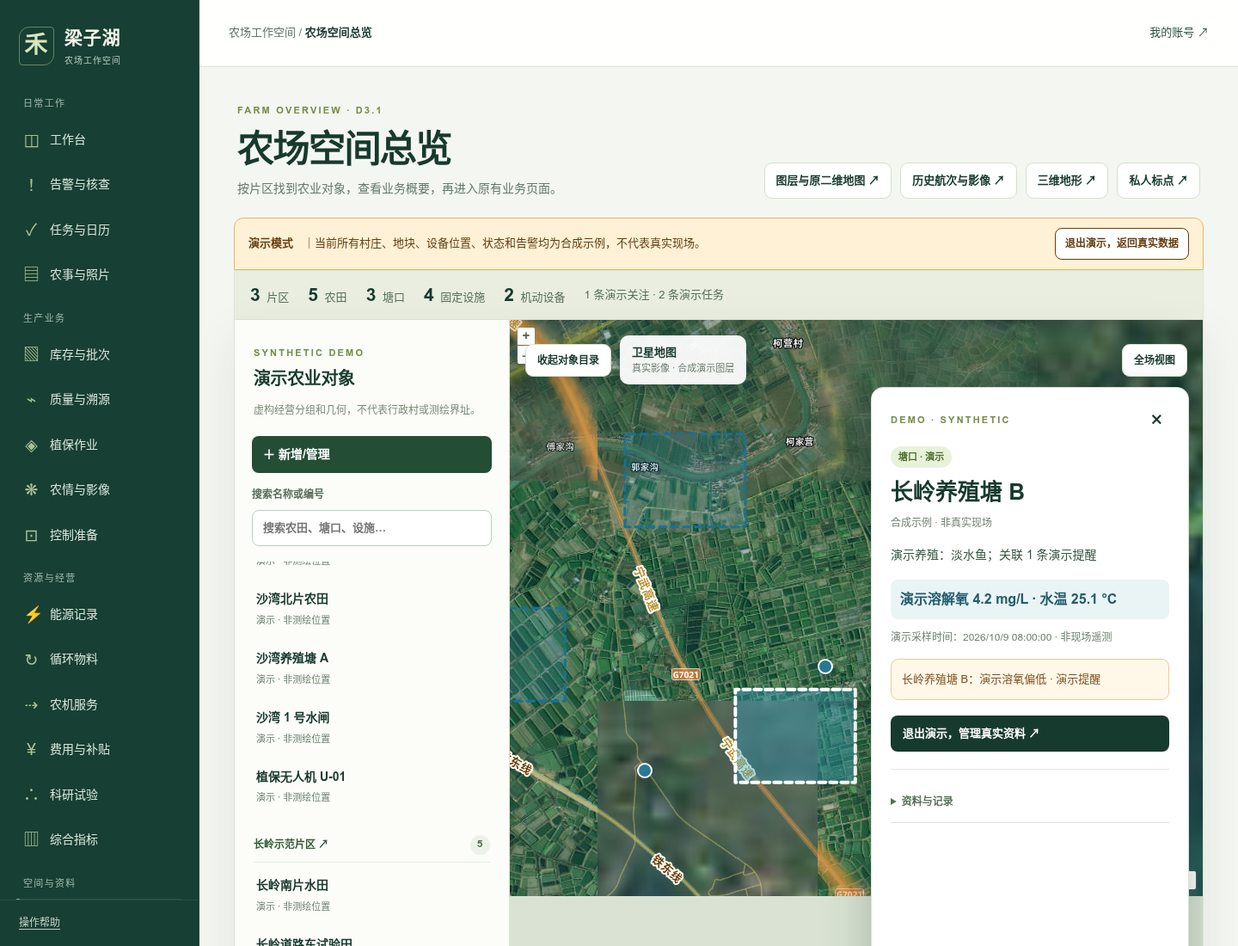
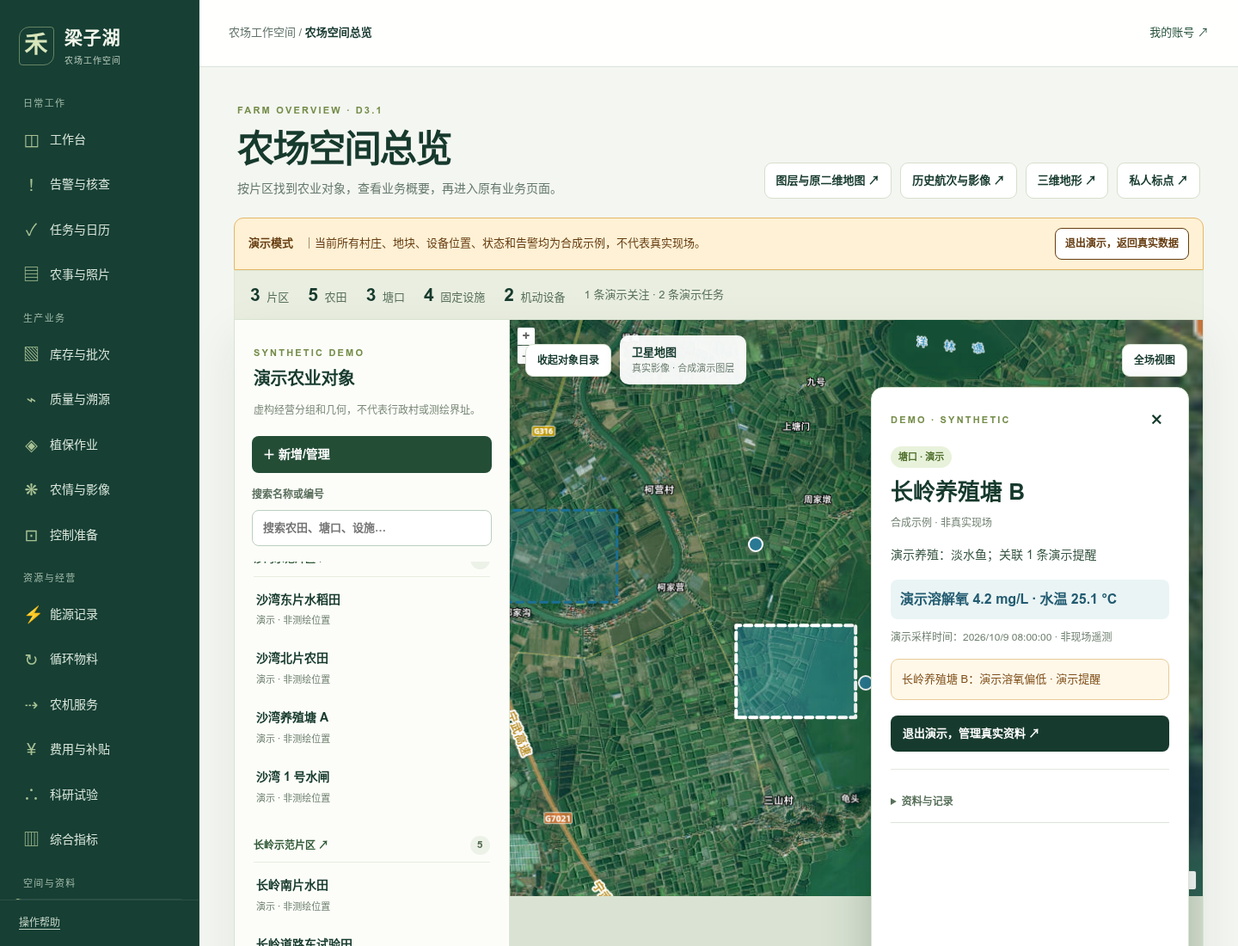
fix: address D3.1 farm overview review findings

diff --git a/src/app/(platform)/farm-overview/demo-fixture.ts b/src/app/(platform)/farm-overview/demo-fixture.ts
@@ -1,34 +1,36 @@
 // Deterministic, read-only presentation data. IDs and coordinates never enter business APIs.
 export type DemoGeometry={type:'Polygon'|'Point';coordinates:number[][][]|number[]};
-export type DemoItem={id:string;name:string;code:string;kind:'farm'|'field'|'pond'|'facility'|'mobile';regionId?:string;geometry:DemoGeometry|null;detail:string;status:string;metric?:string;sampledAt?:string;object_source:string;object_recorded_at:string;boundary_status:'draft'|'unknown';version:1};
+export type DemoItem={id:string;farmId:string;name:string;code:string;kind:'farm'|'field'|'pond'|'facility'|'mobile';regionId?:string;geometry:DemoGeometry|null;detail:string;status:string;metric?:string;sampledAt?:string;object_source:string;object_recorded_at:string;boundary_status:'draft'|'unknown';version:1};
 export type DemoRegion={id:string;farmId:string;name:string;version:number;archivedAt:null;links:{objectId:string}[]};
 const date='2026-10-09T08:00:00+08:00';
 const polygon=(lon:number,lat:number):DemoGeometry=>({type:'Polygon',coordinates:[[[lon-.006,lat-.004],[lon+.006,lat-.004],[lon+.006,lat+.004],[lon-.006,lat+.004],[lon-.006,lat-.004]]]});
 const point=(lon:number,lat:number):DemoGeometry=>({type:'Point',coordinates:[lon,lat]});
 const base={object_source:'D3.1 合成演示 fixture；非测绘、非现场资料',object_recorded_at:date,boundary_status:'draft' as const,version:1 as const};
-const item=(id:string,name:string,kind:DemoItem['kind'],regionId:string|undefined,geometry:DemoGeometry|null,detail:string,status:string,metric?:string):DemoItem=>({id:`demo:${id}`,code:`演示-${id}`,name,kind,regionId,geometry,detail,status,metric,sampledAt:metric?date:undefined,...base});
+const item=(id:string,name:string,kind:DemoItem['kind'],regionId:string|undefined,geometry:DemoGeometry|null,detail:string,status:string,metric?:string):DemoItem=>({id:`demo:${id}`,farmId:'demo:farm:main',code:`演示-${id}`,name,kind,regionId,geometry,detail,status,metric,sampledAt:metric?date:undefined,...base});
 export const demoItems:DemoItem[]=[
  item('farm:main','梁子湖农场（演示总览）','farm',undefined,null,'3 个虚构演示经营片区；不代表现场经营权属','只读演示'),
- item('field:01','沙湾东片水稻田','field','demo:region:sawan',polygon(114.56,30.29),'演示作物：水稻 · 演示阶段：分蘖期','演示地块'),
- item('field:02','沙湾北片农田','field','demo:region:sawan',polygon(114.575,30.305),'演示作物：水稻 · 演示阶段：育秧期','演示地块'),
- item('pond:01','沙湾养殖塘 A','pond','demo:region:sawan',polygon(114.583,30.283),'演示养殖：淡水鱼','演示水质','演示溶解氧 6.1 mg/L'),
- item('facility:01','沙湾 1 号水闸','facility','demo:region:sawan',point(114.578,30.287),'演示开度 65%；没有控制指令','模拟运行'),
- item('field:03','长岭南片水田','field','demo:region:changling',polygon(114.71,30.32),'演示作物：水稻 · 演示阶段：抽穗期','演示地块'),
- item('field:04','长岭道路东试验田','field','demo:region:changling',polygon(114.728,30.335),'演示作物：试验水稻 · 演示阶段：观察期','演示地块'),
- item('pond:02','长岭养殖塘 B','pond','demo:region:changling',polygon(114.739,30.313),'演示养殖：淡水鱼；关联 1 条演示提醒','演示溶氧偏低','演示溶解氧 4.2 mg/L · 水温 25.1 °C'),
- item('facility:02','长岭泵站','facility','demo:region:changling',point(114.724,30.31),'演示泵站；没有控制指令','模拟待命'),
- item('facility:03','长岭水质监测桩','facility','demo:region:changling',point(114.742,30.319),'演示监测设施；读数不来自真实终端','模拟采样'),
- item('field:05','湖东示范田','field','demo:region:hudong',polygon(114.87,30.275),'演示作物：水稻 · 演示阶段：成熟期','演示地块'),
- item('pond:03','湖东养殖塘 C','pond','demo:region:hudong',polygon(114.891,30.287),'演示养殖：淡水鱼','演示水质','演示溶解氧 5.8 mg/L'),
- item('facility:04','湖东 2 号水闸','facility','demo:region:hudong',point(114.883,30.272),'演示灌排设施；没有控制指令','模拟待命'),
- item('mobile:01','植保无人机 U-01','mobile','demo:region:sawan',point(114.595,30.3),'登记归属：沙湾示范片区；演示坐标，非真实 GPS','演示待命'),
- item('mobile:02','收割机 H-01','mobile','demo:region:hudong',point(114.865,30.285),'登记归属：湖东示范片区；演示坐标，非真实 GPS','演示作业中'),
+ // Approximate display anchors adjusted toward shore-side fields, tracks and small ponds.
+ // These do not derive surveyed boundaries or device GPS from the reference image.
+ item('field:01','沙湾东片水稻田','field','demo:region:sawan',polygon(114.655,30.323),'演示作物：水稻 · 演示阶段：分蘖期','演示地块'),
+ item('field:02','沙湾北片农田','field','demo:region:sawan',polygon(114.671,30.315),'演示作物：水稻 · 演示阶段：育秧期','演示地块'),
+ item('pond:01','沙湾养殖塘 A','pond','demo:region:sawan',polygon(114.668,30.298),'演示养殖：淡水鱼','演示水质','演示溶解氧 6.1 mg/L'),
+ item('facility:01','沙湾 1 号水闸','facility','demo:region:sawan',point(114.656,30.302),'演示开度 65%；没有控制指令','模拟运行'),
+ item('field:03','长岭南片水田','field','demo:region:changling',polygon(114.71,30.342),'演示作物：水稻 · 演示阶段：抽穗期','演示地块'),
+ item('field:04','长岭道路东试验田','field','demo:region:changling',polygon(114.728,30.341),'演示作物：试验水稻 · 演示阶段：观察期','演示地块'),
+ item('pond:02','长岭养殖塘 B','pond','demo:region:changling',polygon(114.752,30.331),'演示养殖：淡水鱼；关联 1 条演示提醒','演示溶氧偏低','演示溶解氧 4.2 mg/L · 水温 25.1 °C'),
+ item('facility:02','长岭泵站','facility','demo:region:changling',point(114.748,30.342),'演示泵站；没有控制指令','模拟待命'),
+ item('facility:03','长岭水质监测桩','facility','demo:region:changling',point(114.759,30.33),'演示监测设施；读数不来自真实终端','模拟采样'),
+ item('field:05','湖东示范田','field','demo:region:hudong',polygon(114.87,30.287),'演示作物：水稻 · 演示阶段：成熟期','演示地块'),
+ item('pond:03','湖东养殖塘 C','pond','demo:region:hudong',polygon(114.88,30.286),'演示养殖：淡水鱼','演示水质','演示溶解氧 5.8 mg/L'),
+ item('facility:04','湖东 2 号水闸','facility','demo:region:hudong',point(114.878,30.291),'演示灌排设施；没有控制指令','模拟待命'),
+ item('mobile:01','植保无人机 U-01','mobile','demo:region:sawan',point(114.663,30.319),'登记归属：沙湾示范片区；演示坐标，非真实 GPS','演示待命'),
+ item('mobile:02','收割机 H-01','mobile','demo:region:hudong',point(114.876,30.295),'登记归属：湖东示范片区；演示坐标，非真实 GPS','演示作业中'),
 ];
 export const demoRegions:DemoRegion[]=[
  {id:'demo:region:sawan',farmId:'demo:farm:main',name:'沙湾示范片区',version:1,archivedAt:null,links:[]},
  {id:'demo:region:changling',farmId:'demo:farm:main',name:'长岭示范片区',version:1,archivedAt:null,links:[]},
  {id:'demo:region:hudong',farmId:'demo:farm:main',name:'湖东示范片区',version:1,archivedAt:null,links:[]},
-].map(region=>({...region,links:demoItems.filter(row=>row.regionId===region.id).map(row=>({objectId:row.id}))}));
+].map(region=>({...region,links:demoItems.filter(row=>row.regionId===region.id&&row.kind!=='mobile').map(row=>({objectId:row.id}))}));
 export const demoAlerts=[{id:'demo:attention:01',objectId:'demo:pond:02',text:'长岭养殖塘 B：演示溶氧偏低'}];
 export const demoTasks=[{id:'demo:task:01',regionId:'demo:region:sawan',text:'沙湾田间巡查 · 演示任务'},{id:'demo:task:02',regionId:'demo:region:hudong',text:'湖东灌排设施巡检 · 演示任务'}];
 export const demoCounts={regions:demoRegions.length,fields:demoItems.filter(row=>row.kind==='field').length,ponds:demoItems.filter(row=>row.kind==='pond').length,facilities:demoItems.filter(row=>row.kind==='facility').length,mobiles:demoItems.filter(row=>row.kind==='mobile').length,alerts:demoAlerts.length,tasks:demoTasks.length};

diff --git a/src/app/(platform)/farm-overview/overview-detail.tsx b/src/app/(platform)/farm-overview/overview-detail.tsx
@@ -1,10 +1,10 @@
 'use client';
 import Link from 'next/link';
-import {demoAlerts,demoCounts,demoItems,demoTasks} from './demo-fixture';
+import {demoAlerts,demoTasks} from './demo-fixture';
 import styles from './farm-overview.module.css';
 
-type Item={id:string;name:string;code:string;kind:string;version:number;boundary_status:string;geometry:unknown;object_source?:string;object_recorded_at?:string;boundary_source?:string|null;boundary_recorded_at?:string|null;regionId?:string;detail?:string;status?:string;metric?:string;sampledAt?:string};
-type Region={id:string;name:string;links:{objectId:string}[]};
+type Item={id:string;farm_id?:string;farmId?:string;name:string;code:string;kind:string;version:number;boundary_status:string;geometry:unknown;object_source?:string;object_recorded_at?:string;boundary_source?:string|null;boundary_recorded_at?:string|null;regionId?:string;detail?:string;status?:string;metric?:string;sampledAt?:string};
+type Region={id:string;farmId:string;name:string;links:{objectId:string}[]};
 type Mobile={binding_id:string;object_id:string;machine_name:string;terminal_name:string;valid_until:string};
 type Summary={object_id:string;open_alerts:number;record_count:number;point_count:number};
 const labels:Record<string,string>={farm:'农场',field:'农田',pond:'塘口',facility:'固定设施',mobile:'机动设备',channel:'渠道'};
@@ -20,11 +20,15 @@ export default function OverviewDetail({mode,item,region,mobile,items,regions,su
  const regionRows=region?items.filter(row=>region.links.some(link=>link.objectId===row.id)):[];
  const attention=demo?demoAlerts.find(row=>row.objectId===item?.id):null;
  const relatedTasks=demo?demoTasks.filter(row=>row.regionId===(region?.id??item?.regionId)):[];
- const farmFacts=[{label:'片区',value:regions.length},{label:'农田',value:items.filter(row=>row.kind==='field').length},{label:'塘口',value:items.filter(row=>row.kind==='pond').length},{label:'固定设施',value:items.filter(row=>row.kind==='facility').length},{label:'机动设备',value:demo?demoCounts.mobiles:mobileDevices.length}];
+ const farmId=item?.kind==='farm'?item.id:null;
+ const farmItems=farmId?items.filter(row=>(row.farm_id??row.farmId??(row.kind==='farm'?row.id:null))===farmId):[];
+ const farmItemIds=new Set(farmItems.map(row=>row.id));
+ const farmAlerts=demo?demoAlerts.filter(row=>farmItemIds.has(row.objectId)):[];
+ const farmFacts=[{label:'片区',value:regions.filter(row=>row.farmId===farmId).length},{label:'农田',value:farmItems.filter(row=>row.kind==='field').length},{label:'塘口',value:farmItems.filter(row=>row.kind==='pond').length},{label:'固定设施',value:farmItems.filter(row=>row.kind==='facility').length},{label:'机动设备',value:demo?farmItems.filter(row=>row.kind==='mobile').length:mobileDevices.filter(row=>farmItemIds.has(row.object_id)).length}];
  const regionFacts=[{label:'农田',value:regionRows.filter(row=>row.kind==='field').length},{label:'塘口',value:regionRows.filter(row=>row.kind==='pond').length},{label:'固定设施',value:regionRows.filter(row=>row.kind==='facility').length}];
  return <aside className={styles.drawer} aria-label="对象详情" aria-live="polite"><div className={styles.drawerTop}><span className={styles.eyebrow}>{demo?'DEMO · SYNTHETIC':'AUTHORIZED DETAIL'}</span><button type="button" onClick={onClose} aria-label="关闭对象详情">×</button></div>
   <span className={styles.kind}>{kind}{demo?' · 演示':''}</span><h2>{title}</h2><p className={styles.detailContext}>{demo?'合成示例 · 非真实现场':region?'经营分组，不代表行政村边界':item&&regionForItem?`所属 ${regionForItem.name}`:mobile?'绑定归属来自原农机业务':'仅当前账号获授权资料'}</p>
-  {item?.kind==='farm'&&<><Facts rows={farmFacts}/>{demo?<div className={styles.attention}>关注事项 · {demoAlerts.length} 条演示提醒<br/>{demoAlerts[0].text}</div>:<p className={styles.drawerHint}>已授权对象中有 {summaries.reduce((n,row)=>n+row.open_alerts,0)} 条未关闭告警；仅统计已有授权概要。</p>}</>}
+  {item?.kind==='farm'&&<><Facts rows={farmFacts}/>{demo?<div className={styles.attention}>关注事项 · {farmAlerts.length} 条演示提醒{farmAlerts[0]&&<><br/>{farmAlerts[0].text}</>}</div>:<p className={styles.drawerHint}>本农场已授权对象中有 {summaries.filter(row=>farmItemIds.has(row.object_id)).reduce((n,row)=>n+row.open_alerts,0)} 条未关闭告警；仅统计已有授权概要。</p>}</>}
   {region&&<><Facts rows={regionFacts}/><p className={styles.drawerHint}>共关联 {regionRows.length} 个可见农业对象；按关联对象边界定位，片区本身没有正式测绘边界。</p></>}
   {item?.kind==='field'&&<><p className={styles.businessLead}>{demo?item.detail:'暂无可信作物或生长阶段资料；进入原农事模块核对。'}</p><Facts rows={[{label:'农事记录',value:demo?'演示资料':summary?.record_count??'暂无可信数据'},{label:'关联测点',value:demo?'演示资料':summary?.point_count??'暂无可信数据'}]}/></>}
   {item&&!demo&&!item.geometry&&<p className={styles.detailContext}>待登记</p>}

diff --git a/src/app/(platform)/devices/device-management.tsx b/src/app/(platform)/devices/device-management.tsx
@@ -6,10 +6,10 @@ import {useApi} from '@/components/platform/use-api';
 
 type ObjectRow={id:string;name:string;kind:string;archived_at:string|null};
 type SourceRow={id:string;object_id:string;name:string;code:string;verified:boolean};
-export default function DeviceManagement(){
+export default function DeviceManagement({onDeviceSaved}:{onDeviceSaved:()=>void}){
  const objects=useApi<{items:ObjectRow[]}>('/api/v1/objects?action=configure&limit=200');
  const sources=useApi<SourceRow[]>('/api/v1/sources');
- const [open,setOpen]=useState(false),[objectId,setObjectId]=useState(''),[sourceObjectId,setSourceObjectId]=useState('');
+ const [open,setOpen]=useState(false),[objectId,setObjectId]=useState('');
  useEffect(()=>{if(location.hash==='#register')setOpen(true);},[]);
  const managed=objects.data?.items.filter(row=>!row.archived_at)??[];
  const available=sources.data?.filter(row=>row.object_id===objectId)??[];
@@ -17,7 +17,7 @@ export default function DeviceManagement(){
   {!managed.length?<p className="hint">当前没有可配置的农业对象。请先取得对象配置权限，或在<Link href="/objects">对象台账</Link>登记对象。</p>:<details open={open} onToggle={event=>setOpen(event.currentTarget.open)}><summary>＋ 登记实体设备</summary><label>关联对象<select value={objectId} onChange={event=>setObjectId(event.target.value)}><option value="">选择有配置权的对象</option>{managed.map(row=><option key={row.id} value={row.id}>{row.name} · {row.kind}</option>)}</select></label>
    {objectId&&<>{!available.length&&<p className="hint">该对象尚无数据来源。先登记真实来源编号、服务方和依据，再登记设备；不可使用虚构来源。</p>}
     <details><summary>先登记数据来源</summary><ActionForm path="/api/v1/sources" onSaved={()=>void sources.reload()} label="保存数据来源"><input type="hidden" name="objectId" value={objectId}/><label>来源编号<input name="code" required maxLength={80}/></label><label>来源名称<input name="name" required maxLength={80}/></label><label>服务方<input name="provider" required maxLength={80}/></label><label>合同或资料路径（如有）<input name="contractRef" maxLength={1000}/></label></ActionForm></details>
-    {available.length>0&&<ActionForm path="/api/v1/devices" onSaved={()=>void sources.reload()} label="登记实体设备"><input type="hidden" name="objectId" value={objectId}/><input type="hidden" name="kind" value="physical"/><label>已登记数据来源<select name="sourceId" required defaultValue=""><option value="">选择来源</option>{available.map(row=><option key={row.id} value={row.id}>{row.name} · {row.code}{row.verified?' · 已核实':' · 待核实'}</option>)}</select></label><label>厂家或业务编号<input name="externalId" required maxLength={120}/></label><label>设备名称<input name="name" required maxLength={80}/></label><label>型号（如有）<input name="model"/></label><label>登记依据<input name="source" required maxLength={1000}/></label></ActionForm>}
+    {available.length>0&&<ActionForm path="/api/v1/devices" onSaved={onDeviceSaved} label="登记实体设备"><input type="hidden" name="objectId" value={objectId}/><input type="hidden" name="kind" value="physical"/><label>已登记数据来源<select name="sourceId" required defaultValue=""><option value="">选择来源</option>{available.map(row=><option key={row.id} value={row.id}>{row.name} · {row.code}{row.verified?' · 已核实':' · 待核实'}</option>)}</select></label><label>厂家或业务编号<input name="externalId" required maxLength={120}/></label><label>设备名称<input name="name" required maxLength={80}/></label><label>型号（如有）<input name="model"/></label><label>登记依据<input name="source" required maxLength={1000}/></label></ActionForm>}
    </>}
    <p><Link href="/machinery">农机机具与定位终端关系 ↗</Link>　<Link href="/farm-overview">返回农场地图 ↗</Link></p>
   </details>}

diff --git a/tests/acceptance/farm-overview-d31-browser.test.ts b/tests/acceptance/farm-overview-d31-browser.test.ts
@@ -30,6 +30,7 @@ test('D3.1 演示隔离、差异化详情、真实新增路径和权限', {timeo
    await page.getByRole('button',{name:/查看演示效果/}).click();
    await page.getByText(/当前所有村庄、地块、设备位置、状态和告警均为合成示例/).waitFor();
    for(const name of ['沙湾示范片区','长岭示范片区','湖东示范片区'])await page.getByRole('button',{name:`定位村庄 ${name}`}).waitFor();
+   assert.equal(await page.getByRole('button',{name:/植保无人机 U-01/}).count(),1,'无人机只应在独立机动设备目录出现一次');
    assert.equal(await page.getByText('3 片区').count(),1);
    await capture('02-演示全场.png');
    await page.getByRole('button',{name:/梁子湖农场（演示总览）/}).click();
@@ -132,6 +133,7 @@ test('D3.1 演示隔离、差异化详情、真实新增路径和权限', {timeo
    await deviceForm.getByLabel('登记依据').fill('D3.1 隔离测试');
    await deviceForm.getByRole('button',{name:'登记实体设备'}).click();
    await deviceForm.getByText('已保存').waitFor();
+   await page.getByRole('cell',{name:'隔离验收无人机'}).waitFor();
    assert.equal((await pool.query("SELECT kind,verified FROM devices WHERE external_id='SYNTH-U01'")).rows[0].verified,false);
    const workerContext=await browser.newContext();try{await workerContext.addCookies([{name:'agri_session',value:await app.authenticate(worker),url:app.origin}]);const workerPage=await workerContext.newPage();await workerPage.goto(app.origin+'/farm-overview');await workerPage.getByRole('button',{name:/合成测试农场/}).waitFor();await workerPage.getByRole('button',{name:'＋ 新增/管理'}).click();assert.equal(await workerPage.getByRole('link',{name:'新增地块/塘口'}).count(),0);const denied=await workerContext.request.post(app.origin+'/api/v1/objects',{headers:{Origin:app.origin},data:{parentId:farm,kind:'field',code:'DENIED',name:'越权',source:'测试'}});assert.equal(denied.status(),403);}finally{await workerContext.close();}
    const adminContext=await browser.newContext();try{await adminContext.addCookies([{name:'agri_session',value:await app.authenticate(admin),url:app.origin}]);const denied=await adminContext.request.post(app.origin+'/api/v1/map-regions',{headers:{Origin:app.origin},data:{farmId:farm,name:'管理员无权新村',source:'测试'}});assert.equal(denied.status(),403,'管理员角色不得替代对象配置授权');await permit(pool,admin.id,farm,['read','configure']);const allowed=await adminContext.request.get(app.origin+'/api/v1/objects?action=configure&limit=200');assert.equal(allowed.status(),200);assert((await allowed.json()).items.some((row:{id:string})=>row.id===farm));}finally{await adminContext.close();}

diff --git a/src/app/(platform)/farm-overview/farm-overview.tsx b/src/app/(platform)/farm-overview/farm-overview.tsx
@@ -24,7 +24,7 @@ import OverviewDetail from './overview-detail';
 import {demoCounts,demoItems,demoRegions} from './demo-fixture';
 
 type Geometry={type:string;coordinates:unknown};
-type FarmObject={id:string;name:string;code:string;kind:string;version:number;boundary_status:string;geometry:Geometry|null;object_source?:string;object_recorded_at?:string;boundary_source?:string|null;boundary_recorded_at?:string|null;regionId?:string;detail?:string;status?:string;metric?:string;sampledAt?:string};
+type FarmObject={id:string;farm_id?:string;farmId?:string;name:string;code:string;kind:string;version:number;boundary_status:string;geometry:Geometry|null;object_source?:string;object_recorded_at?:string;boundary_source?:string|null;boundary_recorded_at?:string|null;regionId?:string;detail?:string;status?:string;metric?:string;sampledAt?:string};
 type Region={id:string;farmId:string;name:string;version:number;archivedAt:string|null;links:{objectId:string}[]};
 type Summary={object_id:string;open_alerts:number;record_count:number;point_count:number};
 type MobileDevice={binding_id:string;object_id:string;machine_id:string;machine_name:string;terminal_id:string;terminal_name:string;valid_until:string};
@@ -65,8 +65,8 @@ export default function FarmOverview(){
   if(!regions.length)return kindOrder.map(kind=>({kind,label:labels[kind]??kind,items:filtered.filter(item=>item.kind===kind)})).filter(group=>group.items.length);
   const assigned=new Set(regions.flatMap(region=>region.links.map(link=>link.objectId)));
   const search=query.trim().toLocaleLowerCase();
-  const villageGroups=regions.map(region=>({kind:region.id,label:region.name,items:(region.name.toLocaleLowerCase().includes(search)?items:filtered).filter(item=>region.links.some(link=>link.objectId===item.id))}));
-  const unassigned=filtered.filter(item=>item.kind!=='farm'&&!assigned.has(item.id));
+  const villageGroups=regions.map(region=>({kind:region.id,label:region.name,items:(region.name.toLocaleLowerCase().includes(search)?items:filtered).filter(item=>item.kind!=='mobile'&&region.links.some(link=>link.objectId===item.id))}));
+  const unassigned=filtered.filter(item=>item.kind!=='farm'&&item.kind!=='mobile'&&!assigned.has(item.id));
   const farms=filtered.filter(item=>item.kind==='farm');
   return [...villageGroups,...(unassigned.length?[{kind:'unassigned',label:'未关联村庄',items:unassigned}]:[]),...(farms.length?[{kind:'farm',label:'农场',items:farms}]:[])];
  },[filtered,items,query,regions]);

diff --git a/src/app/(platform)/devices/page.tsx b/src/app/(platform)/devices/page.tsx
@@ -1,3 +1,5 @@
+'use client';
+import {useState} from 'react';
 import DataList from '@/components/platform/data-list';
 import DeviceManagement from './device-management';
-export default function DevicesPage() { return <section className="workspace"><h1>设备与测点</h1><p className="hint">物理设备、网关、摄像通道与测点分别建档。登记设备不代表已经联网。</p><DeviceManagement/><DataList path="/api/v1/devices?limit=200" columns={[{ key: 'name', label: '设备' }, { key: 'kind', label: '类别' }, { key: 'model', label: '型号' }, { key: 'external_id', label: '厂家编号' }, { key: 'object_name', label: '对象' }, { key: 'verified', label: '核实' }]}/><h2>测点</h2><DataList path="/api/v1/points" linkPrefix="/points/" columns={[{ key: 'code', label: '编号与历史入口' }, { key: 'name', label: '名称' }, { key: 'device_name', label: '设备' }, { key: 'metric', label: '指标' }, { key: 'unit', label: '单位' }, { key: 'timing_source', label: '时效依据' }]}/></section>; }
+export default function DevicesPage() { const [deviceRevision,setDeviceRevision]=useState(0);return <section className="workspace"><h1>设备与测点</h1><p className="hint">物理设备、网关、摄像通道与测点分别建档。登记设备不代表已经联网。</p><DeviceManagement onDeviceSaved={()=>setDeviceRevision(value=>value+1)}/><DataList path="/api/v1/devices?limit=200" refreshKey={deviceRevision} columns={[{ key: 'name', label: '设备' }, { key: 'kind', label: '类别' }, { key: 'model', label: '型号' }, { key: 'external_id', label: '厂家编号' }, { key: 'object_name', label: '对象' }, { key: 'verified', label: '核实' }]}/><h2>测点</h2><DataList path="/api/v1/points" linkPrefix="/points/" columns={[{ key: 'code', label: '编号与历史入口' }, { key: 'name', label: '名称' }, { key: 'device_name', label: '设备' }, { key: 'metric', label: '指标' }, { key: 'unit', label: '单位' }, { key: 'timing_source', label: '时效依据' }]}/></section>; }

diff --git a/src/components/platform/data-list.tsx b/src/components/platform/data-list.tsx
@@ -1,5 +1,5 @@
 'use client';
-import { useState } from 'react';
+import { useEffect,useState } from 'react';
 import {useApi} from './use-api';
 export function formatValue(key: string, value: unknown): string {
     if (value === null || value === undefined)
@@ -14,16 +14,18 @@ export function formatValue(key: string, value: unknown): string {
         return new Date(value).toLocaleString('zh-CN');
     return String(value);
 }
-export default function DataList({ path, columns, linkPrefix, emptyText = '当前没有已授权的记录。可由管理员在配置管理中登记并授权。' }: {
+export default function DataList({ path, columns, linkPrefix, refreshKey=0, emptyText = '当前没有已授权的记录。可由管理员在配置管理中登记并授权。' }: {
     path: string;
     columns: {
         key: string;
         label: string;
     }[];
     linkPrefix?: string;
+    refreshKey?: number;
     emptyText?: string;
 }) {
     const {data,error,loading,reload}=useApi<Record<string,unknown>[]|{items:Record<string,unknown>[];total?:number;nextCursor?:string|null}>(path),[query,setQuery]=useState(''),[sort,setSort]=useState('');
+    useEffect(()=>{if(refreshKey>0)void reload();},[refreshKey,reload]);
     const rows=Array.isArray(data)?data:data?.items??[],shown=rows.filter(r=>columns.some(c=>formatValue(c.key,r[c.key]).toLowerCase().includes(query.toLowerCase())));
     if(sort)shown.sort((a,b)=>{const av=a[sort],bv=b[sort];return typeof av==='number'&&typeof bv==='number'?av-bv:formatValue(sort,av).localeCompare(formatValue(sort,bv),'zh-CN',{numeric:true});});
     if (error)

diff --git a/src/modules/map/overview.ts b/src/modules/map/overview.ts
@@ -12,9 +12,14 @@ export async function farmOverview(c: PoolClient, actor: Actor) {
   const items = map.items.filter(item => !archived.includes(item.id as string));
   if (actor.role === 'expert') return { items, regions: [], summaries: [], mobileDevices: [], limits: ['仅显示明确分享的边界资料', '历史轨迹不代表实时定位'] };
   const ids = items.map(item => item.id as string);
-  const provenance = ids.length ? (await c.query(`SELECT o.id,o.source AS object_source,COALESCE(v.created_at,o.created_at) AS object_recorded_at,
+  const provenance = ids.length ? (await c.query(`WITH RECURSIVE ancestry AS (
+    SELECT o.id AS origin,o.id,o.parent_id,o.kind FROM objects o WHERE o.id=ANY($1::uuid[])
+    UNION ALL SELECT a.origin,p.id,p.parent_id,p.kind FROM ancestry a JOIN objects p ON p.id=a.parent_id
+    ), farm_roots AS (SELECT origin,id AS farm_id FROM ancestry WHERE kind='farm' AND parent_id IS NULL)
+    SELECT o.id,f.farm_id,o.source AS object_source,COALESCE(v.created_at,o.created_at) AS object_recorded_at,
     b.source AS boundary_source,b.created_at AS boundary_recorded_at
     FROM objects o LEFT JOIN object_versions v ON v.object_id=o.id AND v.version=o.version
+    LEFT JOIN farm_roots f ON f.origin=o.id
     LEFT JOIN LATERAL (SELECT source,created_at FROM boundary_versions WHERE object_id=o.id AND object_version=o.version LIMIT 1) b ON true
     WHERE o.id=ANY($1::uuid[])`,[ids])).rows : [];
   const provenanceById=new Map(provenance.map(row=>[row.id,row]));

diff --git a/tests/unit/farm-overview-demo.test.ts b/tests/unit/farm-overview-demo.test.ts
@@ -8,6 +8,9 @@ test('D3.1 演示清单、关系和计数来自同一份只读 fixture',()=>{
  assert(demoItems.every(row=>row.id.startsWith('demo:')&&row.object_source.includes('合成演示')));
  const ids=new Set(demoItems.map(row=>row.id));
  for(const region of demoRegions){assert(region.id.startsWith('demo:'));assert(region.links.every(link=>ids.has(link.objectId)));}
+ const mobiles=demoItems.filter(row=>row.kind==='mobile');
+ assert(demoRegions.every(region=>region.links.every(link=>!mobiles.some(row=>row.id===link.objectId))),'机动设备只列在独立目录');
+ assert(mobiles.every(row=>demoRegions.some(region=>region.id===row.regionId)),'详情仍保留管理归属');
  assert(demoAlerts.every(alert=>ids.has(alert.objectId)));
  assert(demoTasks.every(task=>demoRegions.some(region=>region.id===task.regionId)));
  assert(demoItems.filter(row=>row.kind==='mobile').every(row=>row.geometry?.type==='Point'&&row.detail.includes('非真实 GPS')));

diff --git a/docs/acceptance/farm-overview-demo/2026-10-09-D3.1产品可用性验收记录.md b/docs/acceptance/farm-overview-demo/2026-10-09-D3.1产品可用性验收记录.md
@@ -34,8 +34,16 @@
 
 [真实空状态](01-真实空状态.png) · [演示全场](02-演示全场.png) · [农场详情](03-演示农场详情.png) · [片区详情](04-演示片区详情.png) · [塘口详情](05-演示塘口详情.png) · [设施详情](06-演示设施详情.png) · [机动设备详情](07-演示机动设备.png) · [手机详情](08-演示手机详情.png)。截图里的村庄、地块、位置、测值和任务都是合成示例；卫星底图来自天地图。
 
+## 验收意见修订
+
+- 演示片区关联只包含农田、塘口和固定设施；无人机与收割机只在并列的机动设备目录各出现一次。设备详情仍写明登记归属，单测和浏览器均核对目录不重复。
+- 实体设备登记成功后，设备列表立即重新读取。隔离浏览器在不刷新页面的情况下看到新登记的无人机，数据库仍记录 `verified=false`。
+- 合成图层锚点依据本轮浏览器卫星底图截图作岸线、道路和陆地关系的近似微调。规划参考图没有可测量坐标，图层继续统一标注“非测绘位置”，设备提示“非真实 GPS”；不据此主张边界或现场精度。
+- 正式总览为授权对象补所属农场标识，农场详情只计当前农场的片区、农田、塘口、设施、有效绑定和告警。隔离库用两个农场及其不同子对象核对归属，原授权过滤不变。
+- 修订后 TypeScript、Next.js webpack 构建和 6 项定向测试通过，其中含 D1/D2/D3.1 浏览器回归。未执行数据库迁移，未更新生产运行构建。
+
 ## 限制与交付状态
 
 正式库真实多村边界、农机定位、厂家断线和现场控制仍按 D3 原记录待验收。演示图层不能证明现场 T01—T15 通过。设备登记目前保留原 `physical` 技术类别，真实无人机业务细类需要现有资料与专业模块确认；无来源时 UI 会提示先登记来源。本轮仅提交 GitHub 供人工验收，**未更新 `luminous` 运行代码或构建**。
 
-代码、计划、参考图与截图已推送至 [GitHub D3.1 提交](https://github.com/litt1eloser/liangzihu-farm-platform/commit/83dbf85)。
+代码、计划、参考图与截图见 [GitHub 仓库](https://github.com/litt1eloser/liangzihu-farm-platform)。

diff --git a/README.md b/README.md
@@ -12,6 +12,8 @@
 
 **2026-10-09：D3.1 农场总览可用性修订已提交待验收，尚未部署生产。** `/farm-overview` 默认显示真实授权数据，可主动切换至醒目标记的只读演示：3 个虚构片区、5 块农田、3 个塘口、4 处设施、2 台机动设备及示例关注/任务。演示位置、边界、数值和状态均非现场资料，不写正式业务表。真实模式的“＋ 新增/管理”提供村庄、对象、设施和实体设备登记路径；设备登记须先有数据来源，不等于核实、定位或控制。详情抽屉优先展示业务摘要，系统元数据默认折叠。[D3.1 验收记录与截图](docs/acceptance/farm-overview-demo/2026-10-09-D3.1产品可用性验收记录.md)。正式多村与设备现场验收仍待完成。
 
+验收意见修订：演示机动设备仅列在独立目录，设备登记成功后列表立即刷新；合成锚点按卫星影像微调，仍为非测绘位置；农场详情数量按当前农场计算。生产仍未部署 D3.1。
+
 **2026-10-09：D3 工程回归及整体验收核对。** 总览提供旧图层、历史影像、三维和私人点位入口；对象详情标明资料来源与时间，断网时保留已读取目录并提示状态未核实。设施按缩放显示，农机无实时定位时明确“位置未知”。[D3 T01—T15 验收记录与合成样本截图](docs/acceptance/d3/2026-10-09-D3整体验收记录.md)说明验证结果。正式库尚无多村边界与农机定位样本，现场整体验收未通过；独立 `/farm-overview` 继续试用，正式 `/map` 不替换。
 
 **2026-10-09：D2 数据模型与业务整合已分段部署。** 已增加村庄目录与农业对象关联、地块和塘口维护及归档、新总览只读业务概要与有效农机绑定目录。区域归档及对象归档保留历史，正式对象的归档项仍显示在原台账；机动设备来自已有 `devices` 和农机绑定，历史轨迹不作为实时定位。[迁移回滚方案](docs/plans/2026-10-09-D2迁移顺序与回滚方案.md)及[隔离测试和浏览器截图](docs/acceptance/d2/2026-10-09-D2数据模型与业务整合验收记录.md)记录验证范围。现场数据仍待单独验收。
